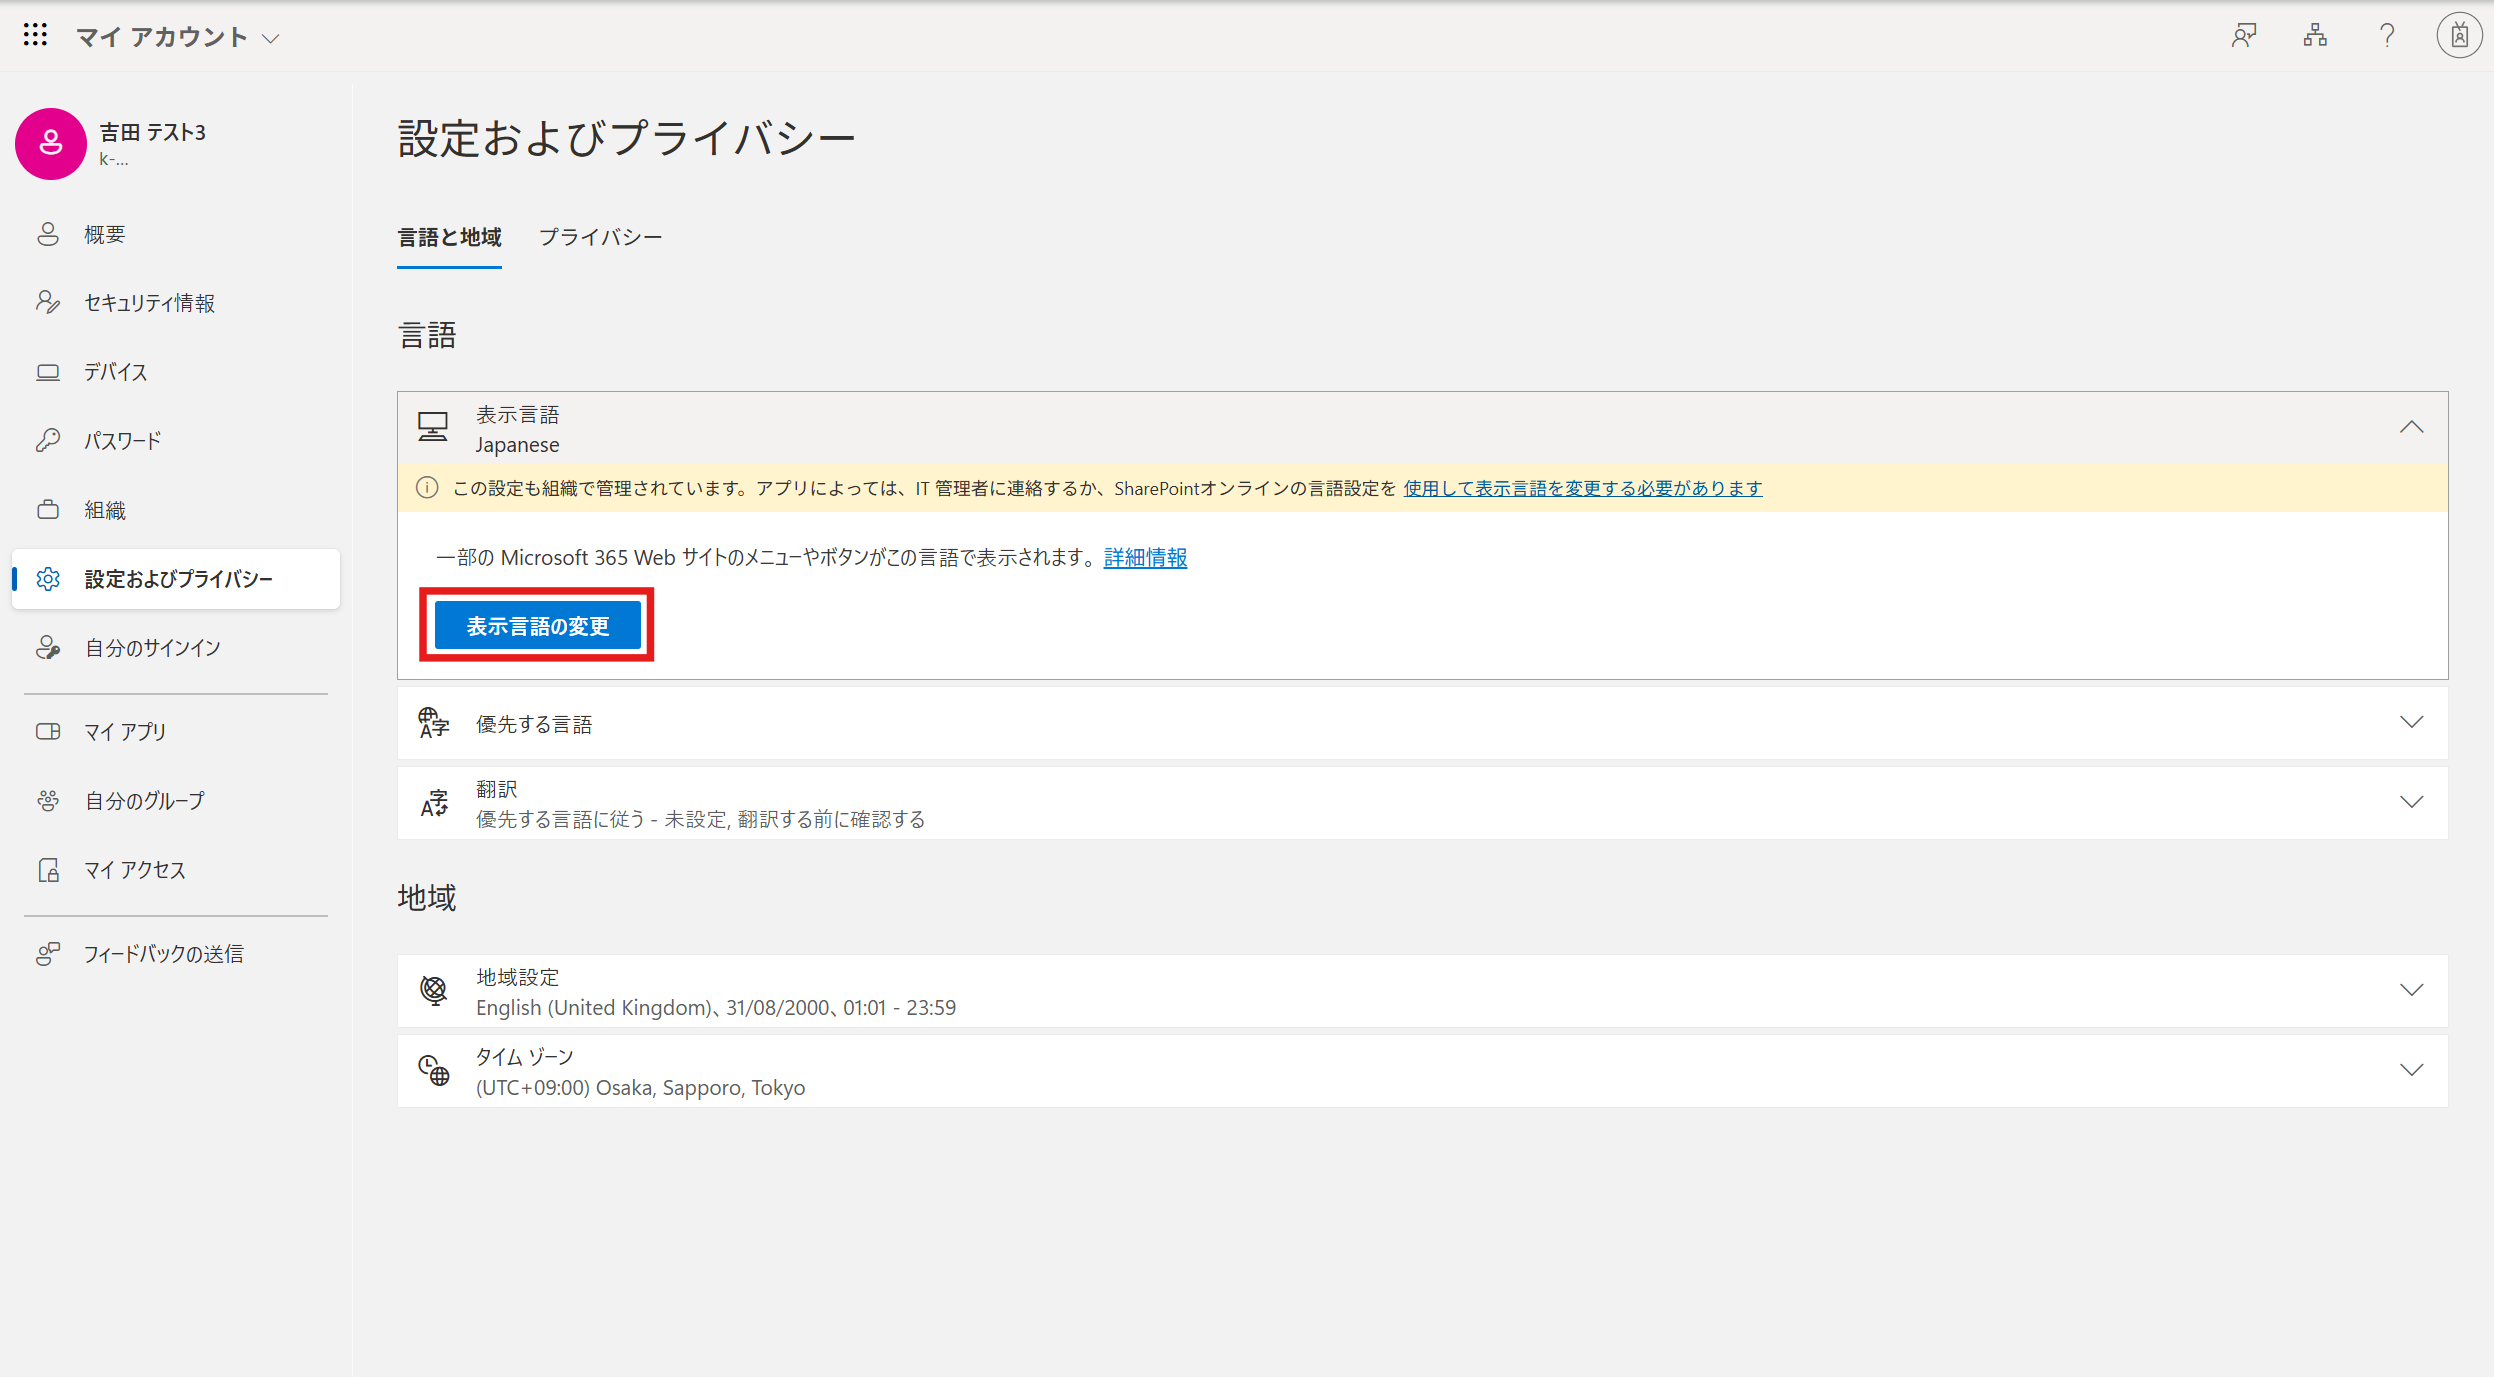
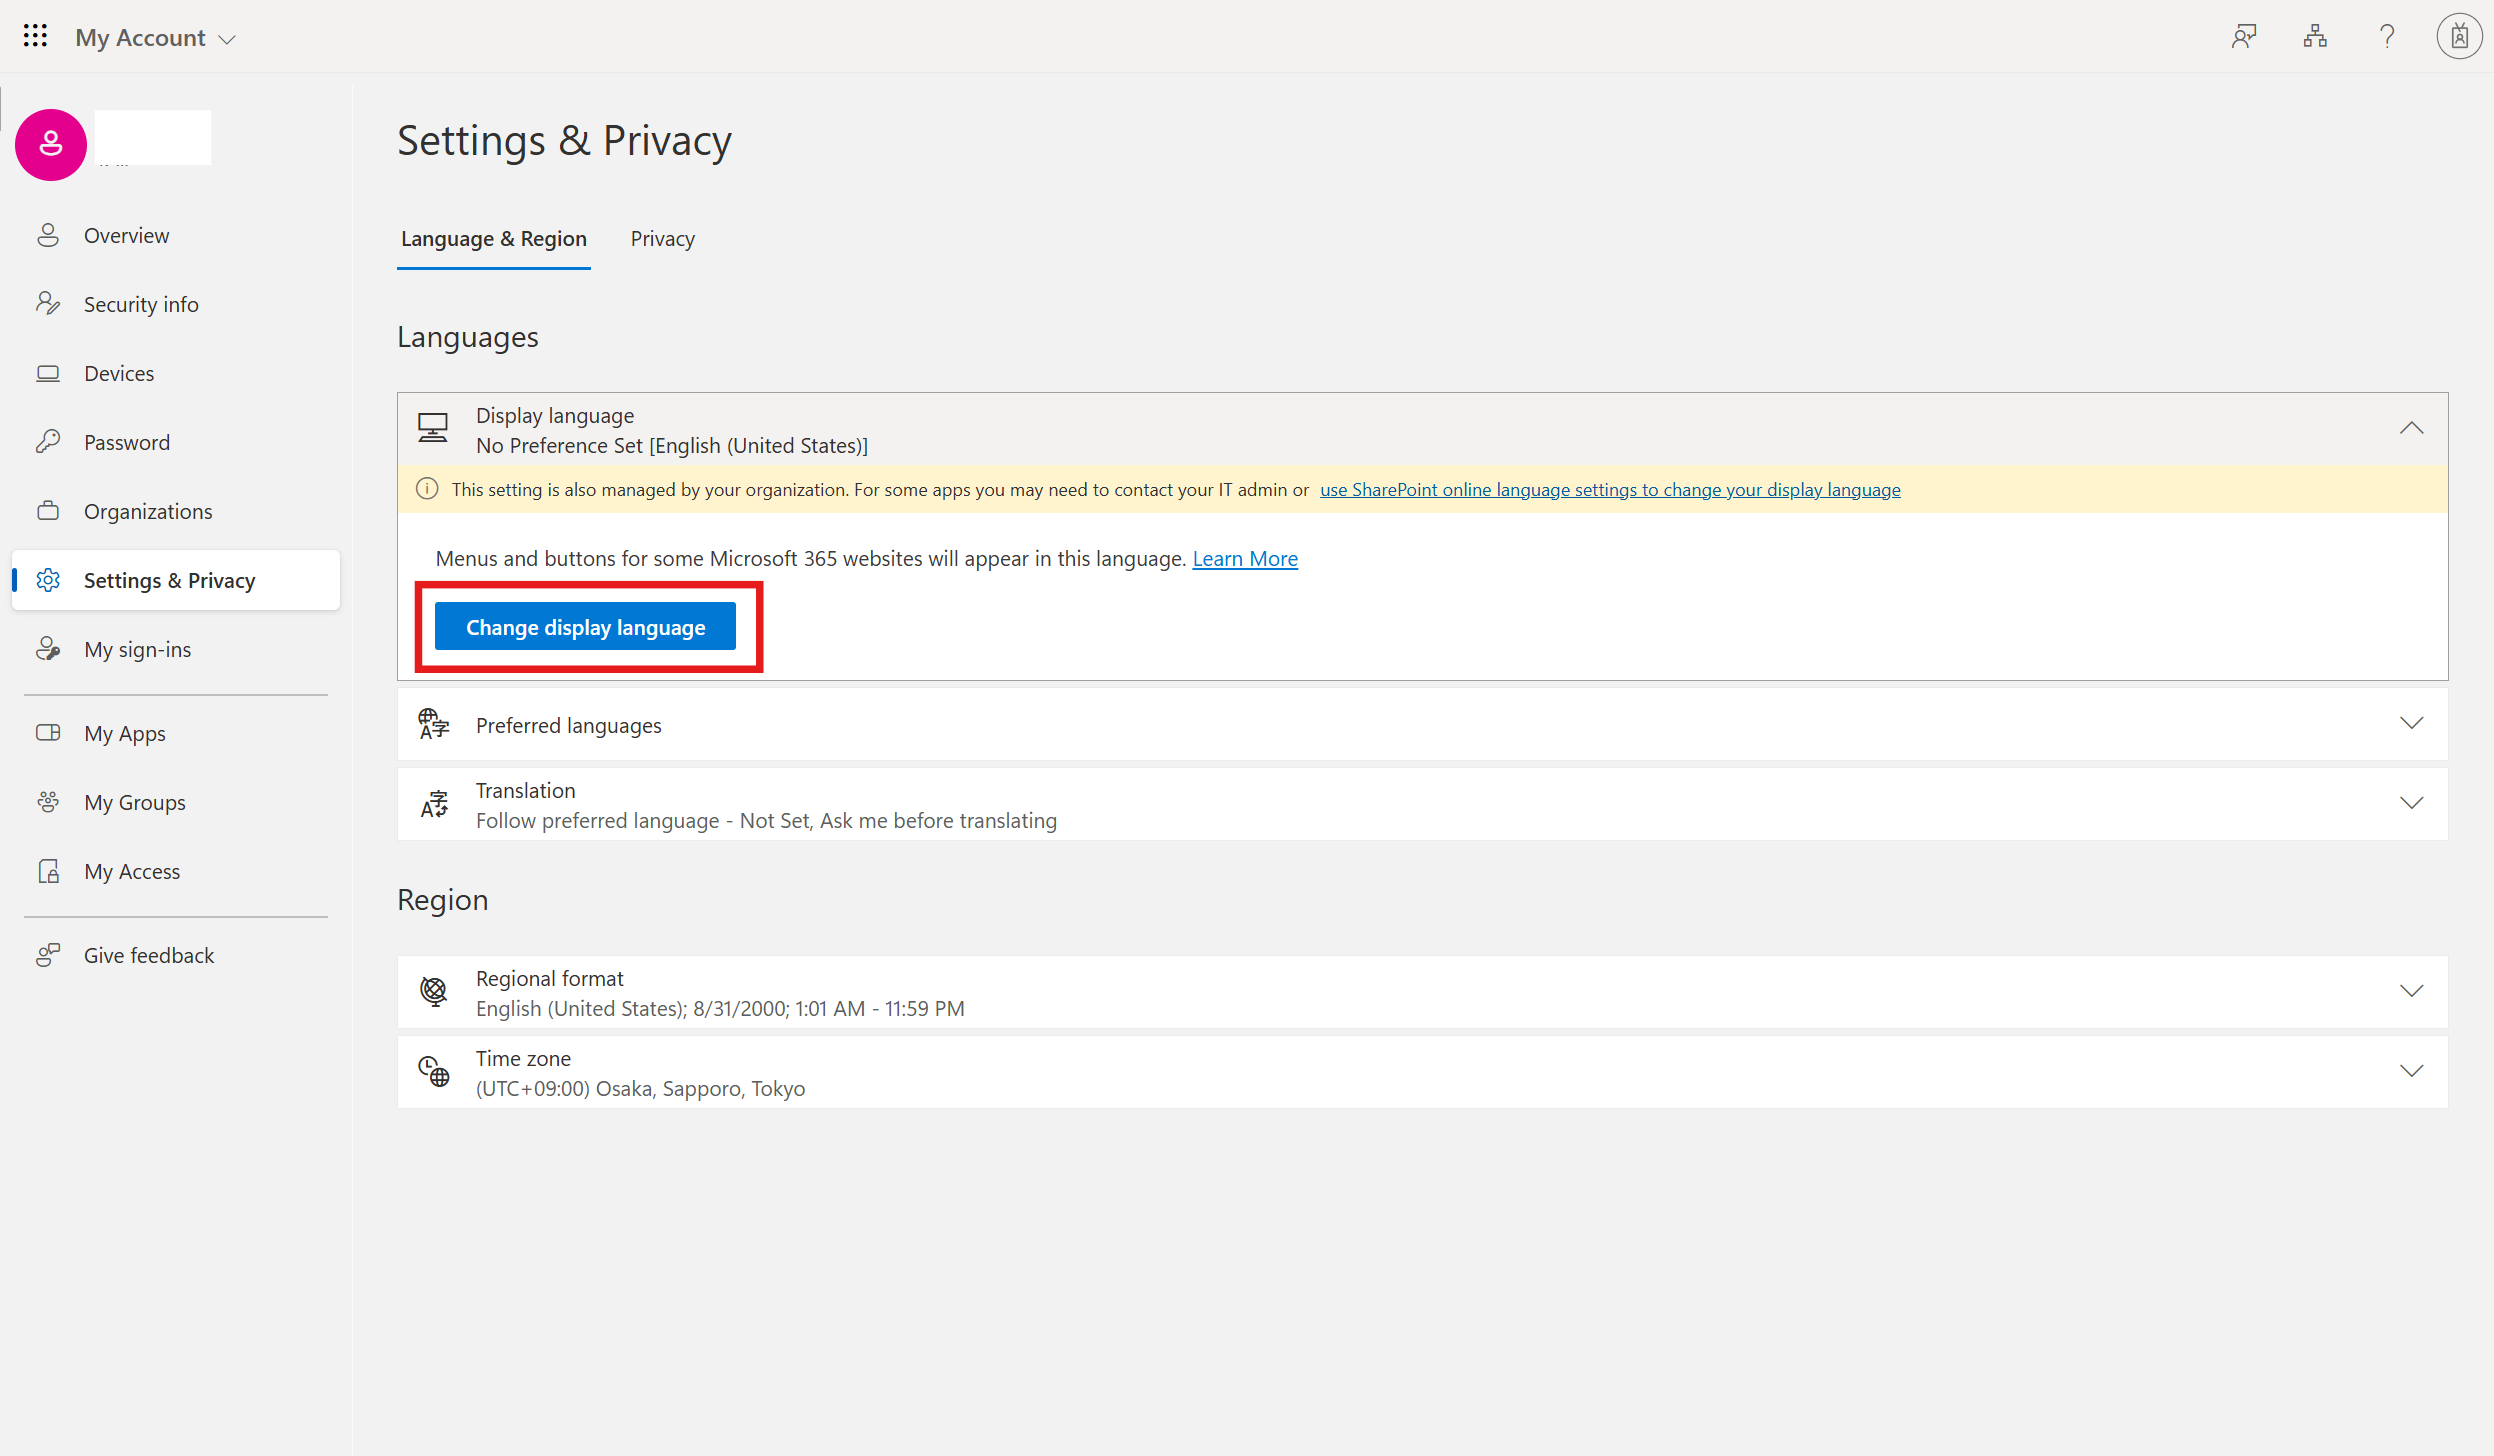
Microsoft Copilot ホームの新規UIに対応

diff --git a/2-agents-builder.md b/2-agents-builder.md
@@ -4,9 +4,12 @@
 > [!NOTE]<br>
 > ここでは、Agent in SharePointの最初にダウンロードした内の「Project X チーム資料.DOCX」を使用します。<br>
 
+<br>
+<br>
+
 ## エージェントを作成する
-1.	[Copilot | Microsoft 365](https://m365.cloud.microsoft/chat/) を開き、右ペインから[エージェントの作成]を押下します。<br>
-![image18](image/02/image18.png)
+1.	[Copilot | Microsoft 365](https://m365.cloud.microsoft/chat/) を開き、左ペインから[エージェントの作成]を押下します。<br>
+![image1](image/02/image1.png)
  
 2.	Copilot Studioが開いたら、次のプロンプトを入力してください。<br>
 ```
@@ -32,8 +35,8 @@
 ![image23](image/02/image23.png)
  
 7.	このエージェントの回答のソースとなるナレッジを設定します。
-[ナレッジ]セクションの[参照]からSharePoint ファイル ピッカーを開き、最初の準備でダウンロードして、SharePointサイトに保存した、“Project X チーム資料.docx”を選択します。
-![image24](image/02/image24.png)<br>
+[ナレッジ]セクションの[クラウドのファイルを添付する]からSharePoint ファイル ピッカーを開き、SharePointサイトに保存されている、“Project X チーム資料.docx”を選択します。
+![image2](image/02/image2.png)<br>
 ![image25](image/02/image25.png)
  
  
@@ -56,16 +59,19 @@
 <br>
 11.	M365 Copilot Chat の画面に遷移し、オンボーディングサポートが表示されていることを確認してください。<br>
 
-![image29](image/02/image29.png)
+![image3](image/02/image3.png)
  
 > [!NOTE]<br>
-> 右ペインのエージェントの一覧から“オンボーディングサポート”を選択して開くこともできます。表示されない場合はブラウザをリフレッシュしてみてください。<br>
+> 左ペインのすべてのエージェントから“オンボーディングサポート”を選択して開くこともできます。表示されない場合はブラウザをリフレッシュしてみてください。<br>
 
 12.	まずはテストで、適当なスタータープロンプトからプロンプトを入力し、動作を確認してください。
-![image30](image/02/image30.png)
+![image4](image/02/image4.png)<br>
+<br>
+<br>
+<br>
 
 ## エージェントを編集する
-1.	M365 Copilot Chat画面の右ペインから[エージェントの作成]を押下します。<br>
+1.	M365 Copilot Chat画面の左ペインから[エージェントの作成]を押下します。<br>
 2.	“Copilot Studio”の記述の右側のドロップダウンから、先ほど作成したエージェントを選択します。ここでは“オンボーディングサポート”になります。
 ![image31](image/02/image31.png)
  
@@ -83,12 +89,14 @@
 右上の[更新]を押下します。<br>
 
 4.	M365 Copilot Chatの画面に戻ってテストをしてください。少しタイムラグがある場合があるので、想定通りに回答が返されない場合には、少し時間をおいてお試しください。
-![image35](image/02/image35.png)
-
+![image6](image/02/image6.png)<br>
+<br>
+<br>
+<br>
 
 ## 挑戦: エージェントを編集する（任意）
-ナレッジの[Web コンテンツ]をオンにして動きの違いを確認してみましょう。<br>
-![image36](image/02/image36.png)<br>
+ナレッジに[全てのWebサイト]を追加して動きの違いを確認してみましょう。<br>
+![image5](image/02/image5.png)<br>
 <br>
 <br>
 機能の[画像ジェネレータ]をオンにして動きを確認してみましょう。
@@ -98,6 +106,11 @@
 ```
 新入社員が入社してきて、オフィスで生き生きと働いている姿の画像を作成してください
 ```
+<br>
+<br>
+<br>
+
+# 以上でハンズオンは終了です
 
 お疲れさまでした！<br>
 次のステップでは、デモ環境の削除方法を説明します。<br>

diff --git a/0-preparation.md b/0-preparation.md
@@ -1,5 +1,8 @@
 # 事前準備
-今回のハンズオンでは、以下の準備を行います。
+今回のハンズオンでは、以下の準備を行います。<br>
+<br>
+<br>
+
 ## サインイン
 1. 講師から直前にアカウント情報を配布します。<br>
 **【アカウント例】**
@@ -10,35 +13,35 @@
 
 2. Microsoft EdgeまたはGoogle Chromeを起動します。
 
-3. 画面右上の[・・・] > [新しい InPrivate ウィンドウ]（Edgeの場合）または[新しいシークレット ウィンドウ]（Chromeの場合）をクリックし、プライベートブラウジングモードを開きます。<br>
+3. 画面右上の[・・・] > [新しい InPrivate ウィンドウ]（Edgeの場合）または[新しいシークレット ウィンドウ]（Chromeの場合）をクリックし、プライベートブラウズモードを開きます。<br>
 ![private](image/00/private.png)<br>
 > [!NOTE]
-> 今回のハンズオンでは、全てこのプライベートブラウジングモードを使用します。<br>
-> プライベートブラウジングモードを使用では、キャッシュやCookieの影響を受けずにサインインできます。
+> 今回のハンズオンでは、全てこのプライベートブラウズモードを使用します。<br>
+> プライベートブラウズモードを使用すると、キャッシュやCookieの影響を受けずにサインインできます。
 
-4. [ホーム | Microosft 365 Copilot](https://m365.cloud.microsoft/?auth=2) にアクセスし、配布されたアカウント情報でサインインします。
+4. https://m365.cloud.microsoft/?auth=2 にアクセスし、配布されたアカウント情報でサインインします。
 
 ## 言語の切り替え
-1. サインイン後、画面左下の歯車マーク> [Settings]をクリックします。
-![settings](image/00/settings.png)
+1. サインイン後、画面左下のアカウント名> [View Account]をクリックします。<br>
+![image0-1](image/00/image0-1.png)
 
-2. [Language and time zone]をクリックします。
-![language](image/00/langtime.png)
+2. [Setting&privacy]をクリックします。<br>
+![image0-2](image/00/image0-2.png)
 
 3. [Display Language] > [Change display language]をクリックします。<br>
 ![image1](image/00/image1.png)
 
-4. [Japanese（日本語）]を選択し、[Select]クリックします。<br>
-![update](image/00/update.png)
+4. [Japanese（Japan）]を選択し、[Select]クリックします。<br>
+![image1-1](image/00/image1-1.png)
 
 5. [Update]をクリックします。<br>
-![image2](image/00/image2.png)
+![image2-1](image/00/image2-1.png)
 
 6. 一度サインアウトを求められます。画面の指示に従って一度サインアウトし、再度サインインします。
-![signout](image/00/signout.png)
+![image3](image/00/image3.png)
 > [!IMPORTANT]<br>
 > 再度サインインしても、My Account上では表示言語が切り替わっていない場合があります。<br>
-> https://m365.cloud.microsoft/ にアクセスし、言語が日本語に切り替わっていたら問題ありませんので、次のステップに進んでください。
+> https://m365.cloud.microsoft/ にアクセスし、言語が日本語に切り替わっていたら問題ありませんので、次のステップに進んでください。<br>
 
 
 # 次のステップ

diff --git a/3-cleanup.md b/3-cleanup.md
@@ -1,40 +1,47 @@
 # 環境をクリーンアップする
 ハンズオン終了後は、環境のクリーンアップをお願いいたします。<br>
 <br>
+<br>
 
 ## エージェントの削除
 ### Agents in SharePoint
 1. [IT Help01]のSharePointサイト>ドキュメントに移動します。
 2. 自分が作成したエージェントを選択し、[削除]をクリックします。<br>
 ![image1](image/03/image1.png)<br>
+<br>
+<br>
 
 ### Agents Builder
 1. [Copilot | Microsoft 365](https://m365.cloud.microsoft/chat/) を開きます。
-2. 自分が作成したエージェントを選択し、[アンインストール]をクリックします。<br>
-![image2](image/03/image2.png)<br>
-3. 確認ダイアログが表示されるので、[アンインストール]をクリックします。<br>
+2. 左ペインから[エージェントの作成]をクリックします。<br>
+![image1](image/02/image1.png)
+3. 新しいエージェントから、[エージェントをすべて表示する]をクリックします。<br>
+![image3](image/03/image3.png)<br>
+4. 自分が作成したエージェントを選択し、[削除]をクリックします。<br>
+![image4](image/03/image4.png)<br>
+<br>
 <br>
 <br>
 
 ## 言語の切り替え
-1. [Copilot | Microsoft 365](https://m365.cloud.microsoft/chat/) を開きます。
-1. 画面左下のオプション>歯車マーク> [Settings]をクリックします。
-![settings](image/00/settings.png)
+1. 画面左下のアカウント名> [View Account]をクリックします。<br>
+![image0-1](image/00/image0-1.png)
 
-2. [Language and time zone]をクリックします。
-![language](image/00/langtime.png)
+2. [設定およびプライバシー]をクリックします。<br>
+![image5](image/03/image5.png)
 
-3. [Display Language] > [Change display language]をクリックします。<br>
-![image1](image/00/image1.png)
+3. [表示言語] > [表示言語の変更]をクリックします。<br>
+![image6](image/03/image6.png)
 
-4. [English (United States)]を選択し、[Select]クリックします。<br>
-![update](image/00/update.png)<br>
+4. [English（United States）]を選択し、[選択]クリックします。<br>
+![image7](image/03/image7.png)
+
 > [!IMPORTANT]<br>
-> United Statesに切り替えられないときは、[English (United Kingdom)]を選択してください。
+> United Statesに切り替えられないときは、[English (United Kingdom)]など別の言語を選択してください。
 
 5. [Update]をクリックします。<br>
-![image2](image/00/image2.png)
+![image2-1](image/00/image2-1.png)
 
-6. 一度サインアウトを求められます。画面の指示に従って一度サインアウトし、再度サインインします。
+6. 一度サインアウトを求められます。画面の指示に従って一度サインアウトし、再度サインインします。<br>
 ![signout](image/00/signout.png)
 

diff --git a/1-agents-in-sharepoint.md b/1-agents-in-sharepoint.md
@@ -1,5 +1,7 @@
 # Agents in SharePoint でエージェントを作成する
-この演習では、特定のSharePointサイト内のドキュメントライブラリのドキュメントを使用して、Copilotプロンプトの例などの質問に答えることができる簡単なエージェントを作成します。
+この演習では、特定のSharePointサイト内のドキュメントライブラリのドキュメントを使用して、Copilotプロンプトの例などの質問に答えることができる簡単なエージェントを作成します。<br>
+<br>
+<br>
 
 ## 準備: SharePoint のサイトにアクセスする
 まず、エージェントを作成するサイトにアクセスしましょう。
@@ -9,8 +11,8 @@
 > 準備中や演習中にドキュメントの内容を確認しておいてください。
 
 1. [https://m365.cloud.microsoft/](https://m365.cloud.microsoft/) に移動します。
-2. ページの左上で [アプリ起動ツール] アイコンを選択し、[SharePoint] を選択して、SharePoint のスタートページに移動します。<br>
-![app-launcher](image/01/app-launcher.png)
+2. ページの左ペインで [アプリ] アイコンを選択し、[SharePoint] を選択して、SharePoint のスタートページに移動します。<br>
+![image1](image/01/image1.png)<br>
 3. [IT Help01]というSharePointサイトを選択します。
 > [!IMPORTANT]<br>
 > 見つからない場合は、[https://csfcopilot.sharepoint.com/sites/ITHelp01](https://csfcopilot.sharepoint.com/sites/ITHelp01)に直接アクセスしてください。<br>
